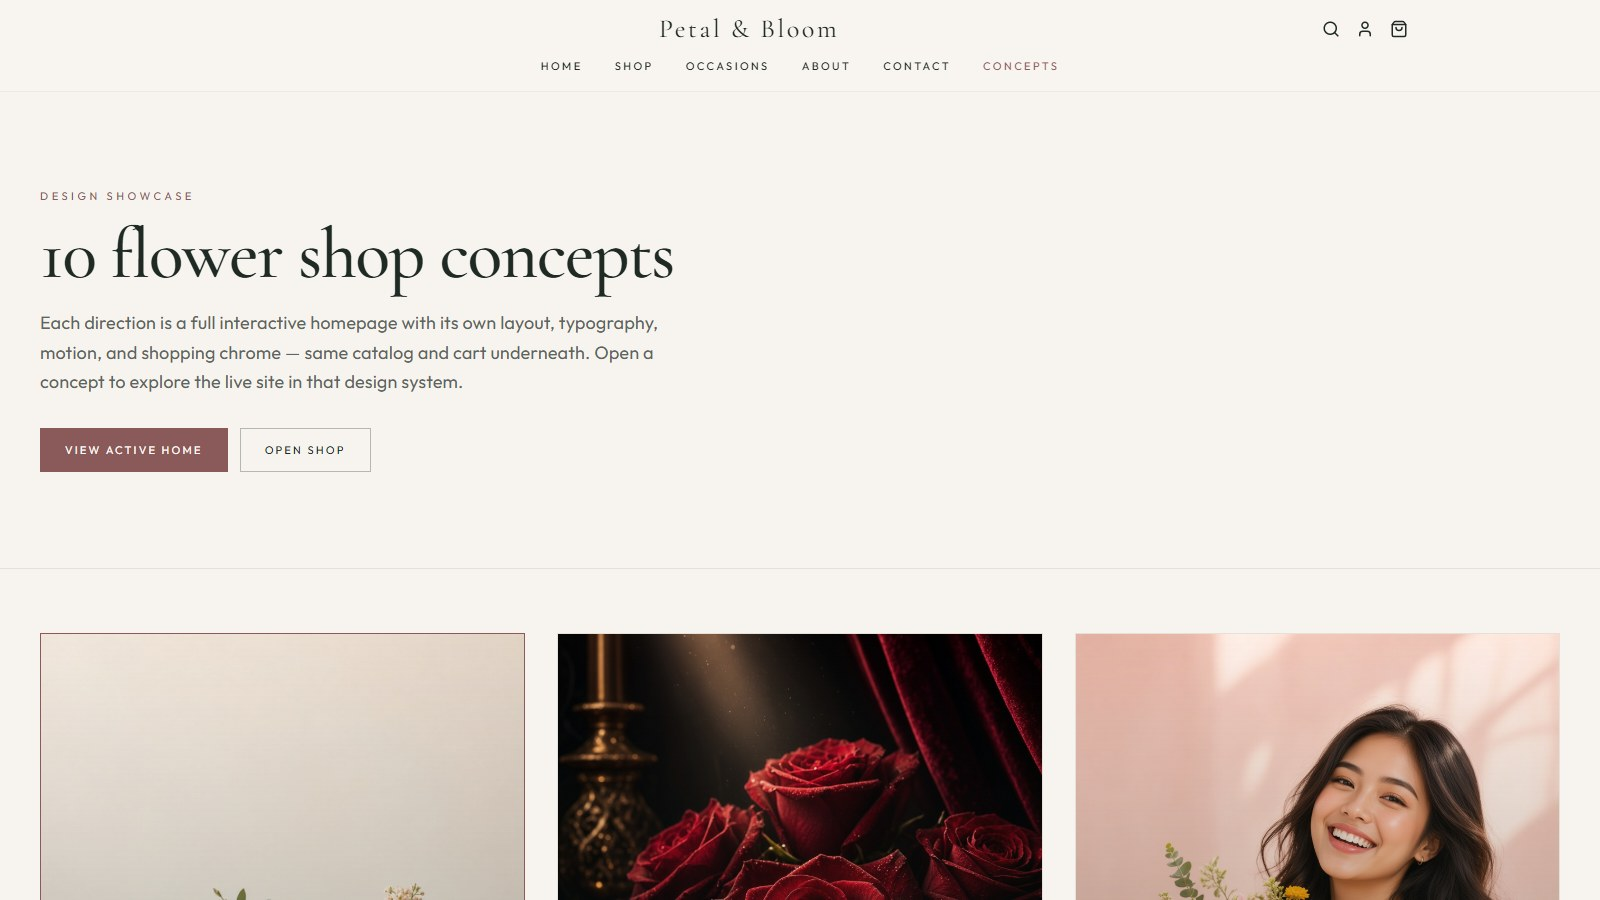
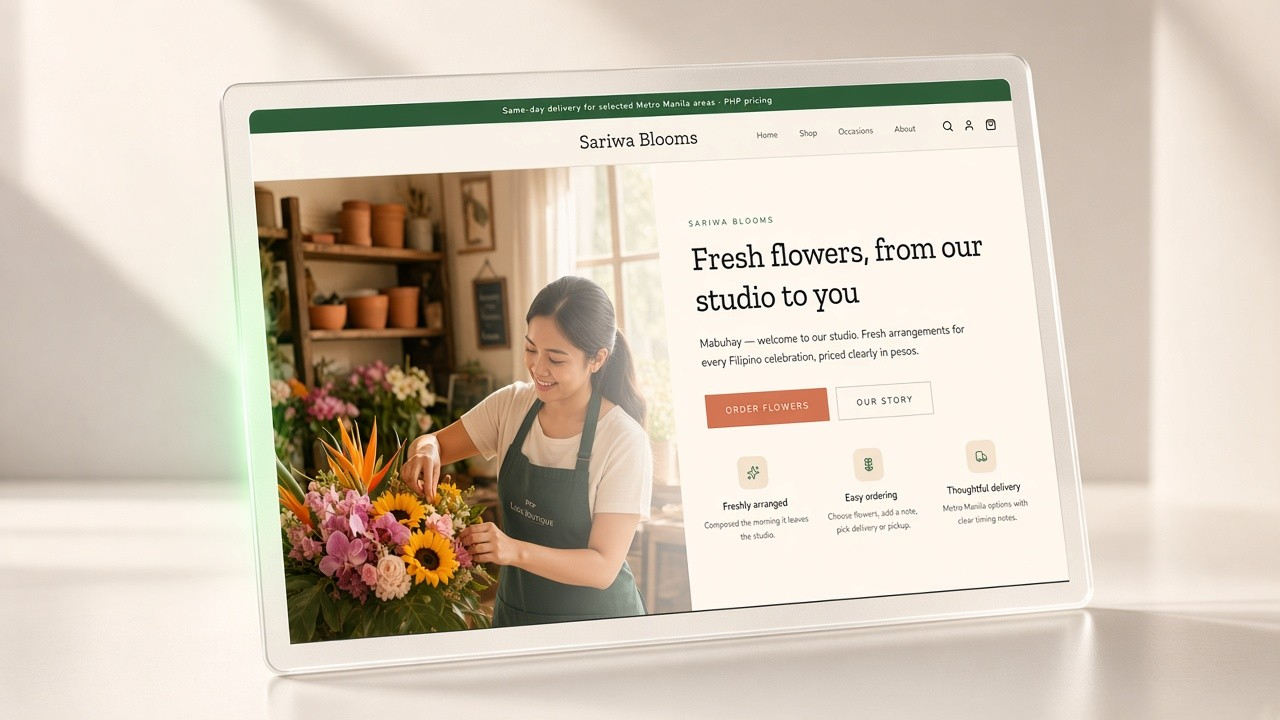
Replace the Bloom card with a generated Sariwa Blooms studio shot.

diff --git a/index.html b/index.html
@@ -271,7 +271,7 @@
                             <span class="win-url">live · bloom-co-flowers.vercel.app</span>
                         </span>
                         <span class="win-body">
-                            <img src="bloom-pro.jpg" alt="Bloom &amp; Co. design showcase: ten flower shop concept looks" class="project-card-img" width="1600" height="900" loading="lazy">
+                            <img src="bloom-pro.jpg" alt="Sariwa Blooms flower shop concept on a glass tablet" class="project-card-img" width="1600" height="900" loading="lazy">
                         </span>
                     </button>
                     <div class="project-win-foot">
